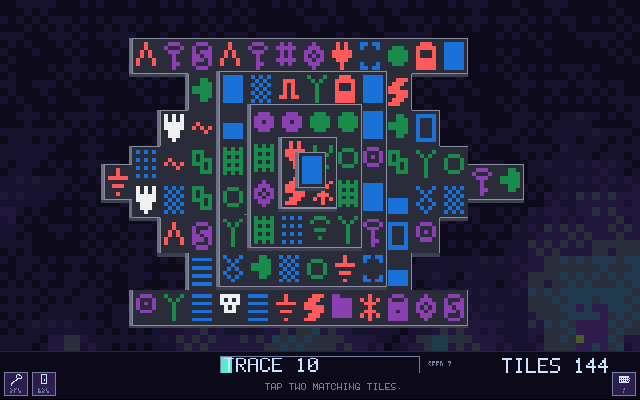
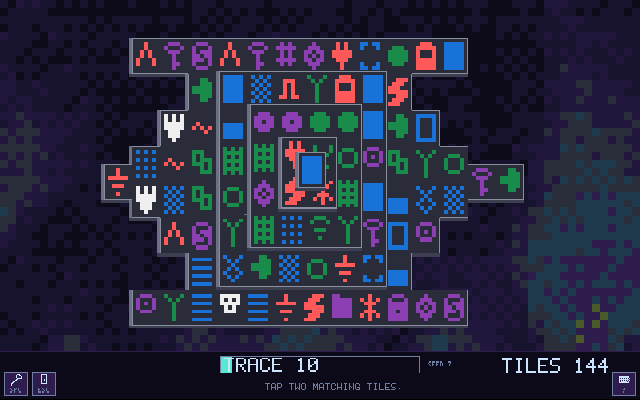
Record the taller flame's visible reach and completed live check
David asked for the flame tongues to reach at least two-thirds of the
screen instead of staying near the bottom third. The committed build
reproduces the calibrated fixed-frame height: visible midtones reach 68.2
percent of the field, up from 36.4 percent in the original. Document the
measurement, the intermediate setting that fell short, and the unchanged
rise speed, fuel, grain, easing, and brightness cap.

The taller field repeats its 200-step frame exactly and passes the
6000-step checkpoint. All 20 samples of a five-minute live run pass the
palette/dither and motion checks, including ICE and bursts: largest tone
share 55.8 percent, at least 2111 half cells changing between samples,
and no console or GL errors. The native application was rebuilt with the
same cooling settings. The earlier frame-cost measurement is retained and
clearly marked as predating the cooling-only change.

The served application is a72e554edbea on the assigned WireGuard port
8774. This commit updates only the report and capture.

- docs/codex/field-rules/REPORT.md records the height calibration, final
  liveness results, and the application revision available for phone review.
- flame.png now shows the taller final field at the same seed and step 200.

Changed region(s): [[0.7812, 0.03, 1.0, 0.84], [0.0, 0.21, 0.125, 0.6]]

diff --git a/docs/codex/field-rules/REPORT.md b/docs/codex/field-rules/REPORT.md
@@ -86,6 +86,16 @@ shown value above stationary grain, eased by 35% per step and capped at
 system, with sparse hot pockets near the base rather than an orange wash.
 Its cadence stays steady under ICE.
 
+David found the first flame version mostly confined to the lower third.
+The final cooling is `0.004 + 0.002 * noise`, down from
+`0.014 + 0.007 * noise`. The source, rise speed, grain, squared display,
+easing, and cap are unchanged. A fixed step-200 comparison counts the highest row with at least
+four of its 80 half-cell pixels in palette slots 3 or higher (the visible
+midtones). The original reaches 36.4% of the field height; an intermediate
+cooling setting reached 63.6%, and the final setting reaches 68.2%. This
+comparison uses a fixed frame; heights still vary with the fuel. Fainter
+flame tones reach farther upward.
+
 These offer six distinct motion patterns alongside Gray–Scott. Another
 chemical reaction would overlap REACTION's look; Brian's Brain would make a
 sparser spark field. All six candidates use the existing eight palette
@@ -157,7 +167,7 @@ Each final rule replays its held step-200 map exactly and passes the
 step-6000 palette/dither checkpoint. Cyclic also matches the integer oracle
 in all 3520 half cells. At step 200 bright accents occupy 0% of cyclic,
 0.09% of flow, 3.41% of signal, 0% of echo, 0.11% of synapse, and
-0.03% of flame.
+0.14% of the taller flame.
 
 Five-minute live runs at the normal stride sample 20 frames, including ICE
 and burst agitation:
@@ -169,7 +179,7 @@ and burst agitation:
 | signal (`9855446`) | 50.2% | 599 | pass |
 | echo (`c68e427`) | 41.8% | 2005 | pass |
 | synapse (`be2c3d3`) | 55.7% | 38 | pass |
-| flame (`9f6a1fc`) | 46.4% | 1032 | pass |
+| flame (`a72e554`) | 55.8% | 2111 | pass |
 
 The browser regression run at `124b77c` passed all eight existing arms.
 LIFE and REACTION each matched all 3520 half cells of their CPU reference
@@ -202,7 +212,7 @@ Final 640×400 nearest-neighbor captures: cyclic from application commit
 `985544674f81`: [cyclic](cyclic.png), [flow](flow.png), [signal](signal.png).
 The extensions: [echo](echo.png) from `c68e4273e1d7` and
 [synapse](synapse.png) from `be2c3d341a50`.
-The [flame capture](flame.png) is from `9f6a1fcd62bf`.
+The taller [flame capture](flame.png) is from `a72e554edbea`.
 Setup: landscape phone emulation at DPR 3, board seed 7, background seed 1,
 held at step 200, from the committed hosted snapshot.
 
@@ -236,7 +246,9 @@ Measurements of each final rule implementation:
 These are observations, not a phone speedup claim. Shared host load and
 software rendering dominate the timings, and the runs happened at different
 times. All six additions use one field step pass. Every previously measured
-mode is unchanged in the flame application build `9f6a1fc`.
+mode except flame is unchanged in the taller-flame build `a72e554`.
+The flame timing predates its cooling-only height adjustment; the shader
+structure, resolution, and number of passes are unchanged.
 
 ## Integration and review
 
@@ -262,5 +274,5 @@ worktree and therefore returns failure. That process was left alone; our
 host's PID, cwd, exact WireGuard listener, and HTTP version are checked
 independently. No wildcard or LAN listener was created. The host is
 detached so it remains available after the session. The served application
-is `9f6a1fcd62bf`; the following documentation commit adds the report and
+is `a72e554edbea`; the following documentation commit adds the report and
 captures without changing the application source.
